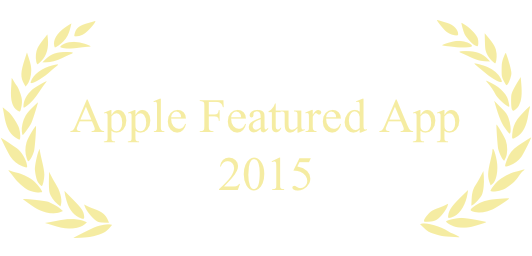
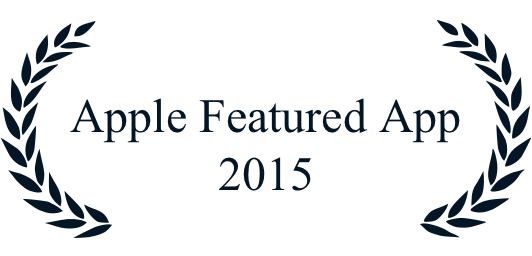
New Color Scheme v1.0!
Did first pass on new colorful theme.

diff --git a/index.html b/index.html
@@ -14,30 +14,43 @@
         <title>Sun Risk - See your risk of skin damage from the sun.</title>
     </head>
     <body>
-        <div class = "headerBar desktopHidden">
+        <div class = "headerBar desktopHidden boxShadow">
             <a href="html, body" class="button"><h3 class = "inline">Sun&nbsp;Risk</h3></a>
             |
-            <a href="https://itunes.apple.com/app/apple-store/id952406318?pt=111410846&ct=Sun%20Risk%20Website&mt=8" class="button borderButton"><h3 class = "inline">GET&nbsp;THE&nbsp;APP</h3></a>
+            <a href="https://itunes.apple.com/app/apple-store/id952406318?pt=111410846&ct=Sun%20Risk%20Website&mt=8" class="button filledButton"><h3 class = "inline white">Get&nbsp;the&nbsp;App</h3></a>
         </div>
-        <div class = "headerBar mobileHidden">
+        <div class = "headerBar mobileHidden boxShadow">
             <a href="html, body" class="button"><h3 class = "inline">Sun&nbsp;Risk</h3></a>
             <!--|
             <a href="#whyUV" class="button"><h3 class = "inline yellow">Why&nbsp;UV</h3></a>
             -
             <a href="#features" class="button"><h3 class = "inline blue">Features</h3></a>
             -
-            <a href="#sunProtection" class="button"><h3 class = "inline orange">Use&nbsp;Sun&nbsp;Protection</h3></a>
-            |-->
-            <a href="#contact" class="button"><h3 class = "inline">Contact</h3></a>
+            <a href="#sunProtection" class="button"><h3 class = "inline orange">Use&nbsp;Sun&nbsp;Protection</h3></a>-->
             
-            <a href="https://itunes.apple.com/app/apple-store/id952406318?pt=111410846&ct=Sun%20Risk%20Website&mt=8" class="button borderButton"><h3 class = "inline">GET&nbsp;THE&nbsp;APP</h3></a>
+            <a href="#contact" class="button"><h3 class = "inline">Contact</h3></a>
+            |
+            <a href="https://itunes.apple.com/app/apple-store/id952406318?pt=111410846&ct=Sun%20Risk%20Website&mt=8" class="button filledButton"><h3 class = "inline white">Get&nbsp;The&nbsp;App</h3></a>
         </div>
-        <div class = "container">
-                <div class="marginBlock extraTopPad bottomPad">
+        <div class = "container orangeGrad">
+                <div class="contentCard extraTopPad bottomPad roundedCorners boxShadow">
                     <div class ="centered">
-                            <img id = "sunRiskIcon" src = "images/SunRiskIcon.png">
-                    </div>   
-                    <p>Hi everyone, 
+                        <img id = "sunRiskIcon" src = "images/SunRiskIcon.png">
+                        <p class = "heroText three shadowedText orange"><b>Sunburn</b></p>
+                        <p class = "heroText two shadowedText orange"><b>Skin aging</b></p>
+                        <p class = "heroText one shadowedText orange"><b>Skin cancer</b></p>
+                        <p class = "heroText four shadowedText orange"><b>KNOW THE RISK</b></p>
+                        <img id = "heroBG" src = "images/HeroBG_FullBleed.png">
+                        <div class = "subBlock left hasPadding">
+                            <img src = "images/AppleFeaturedApp.png">
+                        </div>
+                        <div class = "subBlock right hasPadding">
+                            <a href="https://itunes.apple.com/app/apple-store/id952406318?pt=111410846&ct=Sun%20Risk%20Website&mt=8">
+                                <img src = "images/AppStore.png">
+                            </a>
+                        </div>
+                    </div>
+                    <!-- <p class = "hasPadding">Hi everyone, 
                         <br>
                         <br>
                         Today an important update for Sun Risk has been released on the App Store. This update is important not only for the great performance and reliability improvements it brings, but also because it marks the first fruits of a new development philosophy I am taking with Sun Risk.
@@ -52,16 +65,16 @@
                         Thank you so much for choosing to use Sun Risk in your own life, and I really hope you enjoy the fresh new design this update brings!
                         <br>
                         <br>
-                        Evan Sullivan</p>
-                </div>
+                        Evan Sullivan</p>-->
+                </div> 
             <!--<div id = "hero" class = "centered topPad borderYellow">
                 <div id = "heroBG">
-                    <p class = "heroText three shadowed"><b>Sunburn</b></p>
-                    <p class = "heroText two shadowed"><b>Skin aging</b></p>
-                    <p class = "heroText one shadowed"><b>Skin cancer</b></p>
-                    <p class = "heroText four shadowed"><b>KNOW THE RISK</b></p>
+                    <p class = "heroText three shadowedText"><b>Sunburn</b></p>
+                    <p class = "heroText two shadowedText"><b>Skin aging</b></p>
+                    <p class = "heroText one shadowedText"><b>Skin cancer</b></p>
+                    <p class = "heroText four shadowedText"><b>KNOW THE RISK</b></p>
                 </div>
-                <div class = "marginBlock">
+                <div class = "contentCard">
                     <img id = "sunRiskIcon" src = "images/SunRiskIcon.jpg">
                     <div class = "dividerBar"></div>
                     <p class = "quote yellow">"...a smart watchOS app that uses some of the platform's best features to bring UV&nbsp;forecasts to the wrist."</p>
@@ -84,12 +97,12 @@
             <div id = "whyUV" class = "bottomPad borderYellow">
                 <a id = "whyUV"></a>
                 <div id = "uvIntro">
-                    <div class = "marginBlock centered">
+                    <div class = "contentCard centered">
                         <p class = "quote yellow">"Melanoma, the most serious form of skin cancer, is now one of the most common cancers among adolescents and young adults ages<br>15-29."</p>
                         <p class = "citation"><em>- United States Environmental Protection Agency</em></p>
                     </div>
                 </div>
-                <div class = "marginBlock">
+                <div class = "contentCard">
                     <h1 class = "yellow">
                         The real effects of
                         <br> 
@@ -110,7 +123,7 @@
             </div>
             <div class = "topPad blueGrad borderBlue">
                 <a id = "features"></a>
-                <div class = "marginBlock">
+                <div class = "contentCard">
                     <h1 class = "blue">Here’s how <em>Sun Risk</em> shows you the risk of skin damage:</h1>
                     <div class = "subBlock left">
                         <img class = "smallIcon" src = "images/simpleIcon.png">
@@ -139,7 +152,7 @@
             </div>
             <div class = "topPad bottomPad blueGrad borderOrange">
                 <a id = "sunProtection"></a>
-                <div class = "marginBlock">
+                <div class = "contentCard">
                     <h1 class = "orange">Sun Risk shows you the risk. It's on you to protect yourself.</h1>
                     <div class = "subBlock left">
                     <img class = "smallIcon" src = "images/sunscreenIcon.png">
@@ -163,24 +176,27 @@
                 </div>
                 </div>                
             </div> -->
-            <div class = "topPad borderBlack">
+            <div class = "topPad">
                 <a id = "contact"></a>
-                <div class = "marginBlock bottomPad">
-                    <div class = "subBlock left">
+                <div class = "contentCard topPad bottomPad roundedCorners boxShadow">
+                    <div class = "hasPadding">
+                        <h1 class = "orange">Contact Me</h1>
+                    </div>
+                    <div class = "subBlock left hasPadding">
                     <!-- <p class = "quote">I'm Evan, the founder of Interface&nbsp;Labs, the company which designs and builds <em>Sun&nbsp;Risk</em>.
                     <br>
                     <br> -->
-                    If you have any questions, trouble with the app, or just want to chat, I'd love to hear from you!
+                    <h2>If you have any questions, trouble with the app, or just want to chat, I'd love to hear from you!</h2>
                     </div>
-                    <div class = "subBlock right">
+                    <div class = "subBlock right hasPadding">
                     <h2>Email:</h2>
-                    <a href = "mailto:sunriskapp@gmail.com"><h2 class = "noMargin underlined yellow">interfacelabs@icloud.com</h2></a>
+                    <a href = "mailto:sunriskapp@gmail.com"><h2 class = "noMargin underlined orange">interfacelabs@icloud.com</h2></a>
                     <h2>Twitter:</h2>
                     <a href = "https://twitter.com/sunriskapp"><h2 class = "noMargin underlined blue">@sunriskapp</h2></a>
                     </div>
                 </div>
             </div>
-            <div class = "footerBar centered borderBlack"><p class = "quote">I.L. TWENTY EIGHTEEN</p></div>
+            <div class = "footerBar centered"><p class = "quote white">I.L. TWENTY EIGHTEEN</p></div>
         </div>
     </body>
 </html>

diff --git a/stylesheet.css b/stylesheet.css
@@ -3,9 +3,9 @@ html, body {
     padding: 0;
     height: 100%;
     line-height: 1.4em;
-    font-family: 'Roboto', 'Helvetica Neue', sans-serif;
+    font-family: 'Helvetica Neue', sans-serif;
     font-size: 1.1em;
-    color: #0A0E14;
+    color: #041626;
     background-color: #FFFFFF;
     text-rendering: optimizeLegibility;
     -webkit-font-smoothing: antialiased;
@@ -13,12 +13,12 @@ html, body {
 }
 
 a {
-    color: #0A0E14;
+    color: #041626;
     text-decoration: none;
 }
 
 h1 {
-    color: #0A0E14;
+    color: #041626;
     line-height: 1.4em;
     max-width: 12em;
 }
@@ -85,8 +85,17 @@ img {
     float: right;
 }
 
-.shadowed {
-    text-shadow: 0px 6px 4px black;
+.hasPadding {
+    padding-left: 1.4em;
+    padding-right: 1.4em;
+}
+
+.shadowedText {
+    text-shadow: 0px 1px 2px rgb(200, 200, 200);
+}
+
+.boxShadow {
+    box-shadow: 0px 2px 8px rgb(107, 57, 0);
 }
 
 .purple {
@@ -102,19 +111,23 @@ img {
 }
 
 .yellow {
-    color: rgb(206, 187, 49);
+    color: rgb(252, 230, 67);
 }
 
 .blue {
-    color: rgb(47, 64, 97);
+    color: rgb(112, 194, 231);
 }
 
-.yellowGrad{
-    background-image: linear-gradient(150deg, #393830 0%, #0A0E14 60%);
+.white {
+    color: white;
+}
+
+.orangeGrad{
+    background-image: linear-gradient(150deg, #FAD961 0%, #F76B1C 75%);
 }
 
 .blueGrad {
-    background-image: linear-gradient(150deg, #212C3A 0%, #0A0E14 60%);
+    background-image: linear-gradient(150deg, rgb(152, 217, 255) 0%, rgb(0, 76, 99) 60%);
 }
 
 .borderOrange {
@@ -142,9 +155,21 @@ img {
 }
 
 .borderButton {
-    border: 1px solid #0A0E14;
+    border: 1px solid #F76B1C;
     border-radius: 1em;
     margin-left: 1em;
+}
+
+.filledButton {
+    margin-left: 1em;
+    border-radius: 1em;
+    background-color: #F76B1C;
+    padding: 0.1em;
+    padding-bottom: 0.2em;
+}
+
+.roundedCorners {
+    border-radius: 3px;
 }
 
 .imageTop {
@@ -155,13 +180,12 @@ img {
     width: 100%;
     position: fixed;
     background: #FFFFFF;
-    opacity: 0.95;
+    opacity: 0.98;
     text-align: center;
 /*    vertical-align: middle;*/
     padding-top: 0.4em;
     padding-bottom: 0.4em;
-    border-bottom: 1px solid #888888;
-    box-shadow: 0px 1px 8px black;
+    /* border-bottom: 1px solid #888888; */
 }
 
 .footerBar {
@@ -172,10 +196,12 @@ img {
 .container {
     min-height: 100%;
     margin: auto;
+    padding-left: 0.4em;
+    padding-right: 0.4em;
 }
 
 .heroText {
-    font-family: 'Roboto Condensed';
+   font-family: 'Roboto Condensed'; 
 }
 
 .heroText.one {
@@ -209,11 +235,10 @@ img {
     margin-bottom: 2em;
 }
 
-.marginBlock {
+.contentCard {
     max-width: 36em;
     margin: auto;
-    padding-left: 1.4em;
-    padding-right: 1.4em;
+    background-color: rgba(255, 255, 255, 0.98);
 }
 
 .dividerBar {
@@ -227,12 +252,8 @@ img {
 .subBlock {
     display: inline-block;
     overflow: hidden;
-    width: 49%;
+    max-width: 40%;
     vertical-align: top;
-}
-
-.subBlock p {
-    padding-right: 2em;
 }
 
 .smallIcon {
@@ -253,7 +274,8 @@ img {
 
 #heroBG {
 /*    background-color: antiquewhite;*/
-    background-image: url(images/HeroBG.jpg);
+    /* background-image: url(images/HeroBG_FullBleed.png); */
+    max-width: 100%;
     background-position: center;
     background-repeat: no-repeat;
     background-size: contain;
@@ -296,7 +318,7 @@ img {
     }
     
     .subBlock {
-        width: 100%;
+        max-width: 100%;
     }
     
     .desktopHidden {
